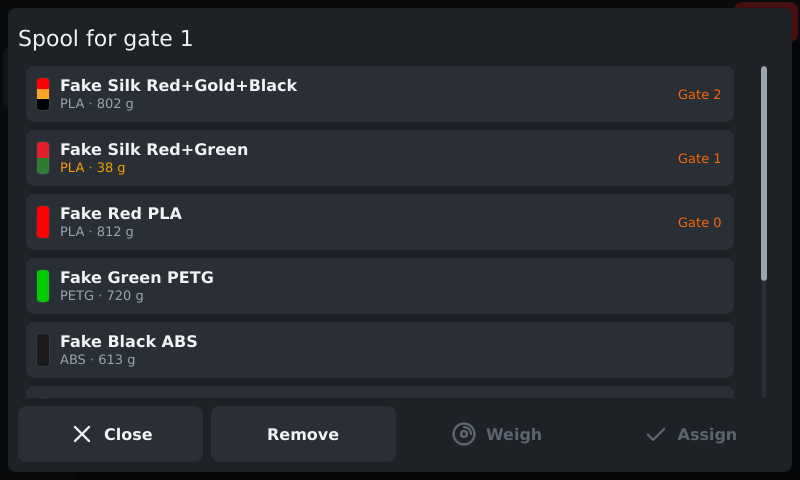
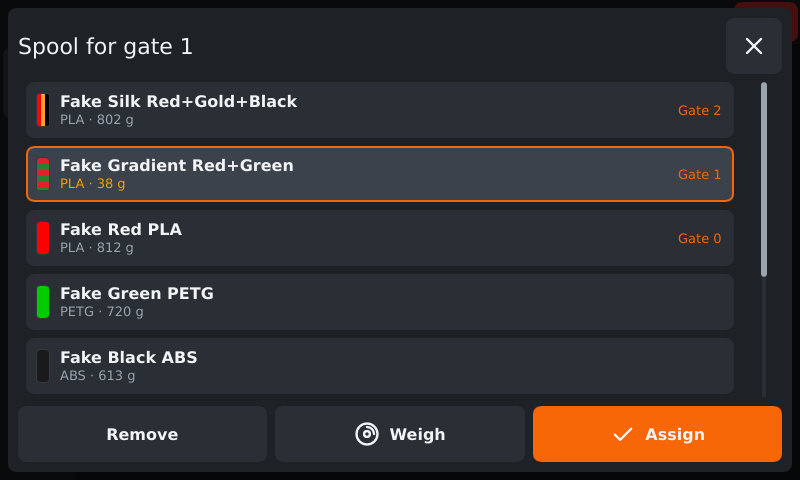
Extruder gears in the filament path, clearer spool dialog
- Extruder shown as a gears icon instead of a thick tube piece; lit once Happy Hare reports the filament at the gears
- Spool dialog: close button at the top right, the current spool preselected
- "Remove" renamed to "Unlink" and only enabled when the gate has a spool

diff --git a/assets/icons/overview.html b/assets/icons/overview.html
@@ -10,7 +10,7 @@ figure{margin:0;text-align:center}
 .icon svg{width:48px;height:48px}
 figcaption{font-size:11px;opacity:.8;word-break:break-all}
 </style></head><body>
-<h1>freakymate icon set (158 icons) - generated by crates/icon-index</h1>
+<h1>freakymate icon set (159 icons) - generated by crates/icon-index</h1>
 <section style="color:#000;background:#fff"><h2>accessory</h2><div class="grid"><figure><div class="icon"><svg xmlns="http://www.w3.org/2000/svg" viewBox="0 0 24 24" width="24" height="24" fill="none" stroke="currentColor" stroke-width="2" stroke-linecap="round" stroke-linejoin="round">
   <path d="M4 8h3l2-3h6l2 3h3v11H4z"/>
   <circle cx="12" cy="13" r="3.5"/>
@@ -63,6 +63,11 @@ figcaption{font-size:11px;opacity:.8;word-break:break-all}
   <path d="M8 3h8l-2 5h-4z"/>
   <path d="M12 12v8M8.5 16.5L12 20l3.5-3.5"/>
 </svg></div><figcaption>extrude</figcaption></figure><figure><div class="icon"><svg xmlns="http://www.w3.org/2000/svg" viewBox="0 0 24 24" width="24" height="24" fill="none" stroke="currentColor" stroke-width="2" stroke-linecap="round" stroke-linejoin="round">
+  <path d="M3 12h18"/>
+  <circle cx="12" cy="7" r="3.5"/>
+  <circle cx="12" cy="17" r="3.5"/>
+  <path stroke-width="3" d="M12 7h.01M12 17h.01"/>
+</svg></div><figcaption>extruder-gears</figcaption></figure><figure><div class="icon"><svg xmlns="http://www.w3.org/2000/svg" viewBox="0 0 24 24" width="24" height="24" fill="none" stroke="currentColor" stroke-width="2" stroke-linecap="round" stroke-linejoin="round">
   <path d="M12 3.5c3 4 6 6.5 6 10a6 6 0 01-12 0c0-3.5 3-6 6-10z"/>
 </svg></div><figcaption>flow</figcaption></figure><figure><div class="icon"><svg xmlns="http://www.w3.org/2000/svg" viewBox="0 0 24 24" width="24" height="24" fill="none" stroke="currentColor" stroke-width="2" stroke-linecap="round" stroke-linejoin="round">
   <path d="M12 3v12M8 11.5l4 4 4-4"/>
@@ -543,6 +548,11 @@ figcaption{font-size:11px;opacity:.8;word-break:break-all}
   <path d="M8 3h8l-2 5h-4z"/>
   <path d="M12 12v8M8.5 16.5L12 20l3.5-3.5"/>
 </svg></div><figcaption>extrude</figcaption></figure><figure><div class="icon"><svg xmlns="http://www.w3.org/2000/svg" viewBox="0 0 24 24" width="24" height="24" fill="none" stroke="currentColor" stroke-width="2" stroke-linecap="round" stroke-linejoin="round">
+  <path d="M3 12h18"/>
+  <circle cx="12" cy="7" r="3.5"/>
+  <circle cx="12" cy="17" r="3.5"/>
+  <path stroke-width="3" d="M12 7h.01M12 17h.01"/>
+</svg></div><figcaption>extruder-gears</figcaption></figure><figure><div class="icon"><svg xmlns="http://www.w3.org/2000/svg" viewBox="0 0 24 24" width="24" height="24" fill="none" stroke="currentColor" stroke-width="2" stroke-linecap="round" stroke-linejoin="round">
   <path d="M12 3.5c3 4 6 6.5 6 10a6 6 0 01-12 0c0-3.5 3-6 6-10z"/>
 </svg></div><figcaption>flow</figcaption></figure><figure><div class="icon"><svg xmlns="http://www.w3.org/2000/svg" viewBox="0 0 24 24" width="24" height="24" fill="none" stroke="currentColor" stroke-width="2" stroke-linecap="round" stroke-linejoin="round">
   <path d="M12 3v12M8 11.5l4 4 4-4"/>

diff --git a/crates/ui-snapshot/src/scenes.rs b/crates/ui-snapshot/src/scenes.rs
@@ -227,7 +227,9 @@ fn spools(session: &mut Session) -> Result<(), String> {
     session.show_page(Page::Temperature, "temperature-spool")?;
 
     session.window.global::<Navigation>().set_page(Page::Print);
-    session.window.global::<SpoolPicker>().invoke_show(if has_mmu { 1 } else { -1 });
+    // Opens like a tap on the strip or gate 1: the spool in use is selected.
+    let current = session.window.global::<Printer>().get_spool_id();
+    session.window.global::<SpoolPicker>().invoke_show(if has_mmu { 1 } else { -1 }, current);
     session.pump(Duration::from_secs(2));
     session.capture("spool-picker")?;
     session.window.global::<SpoolPicker>().set_open(false);

diff --git a/crates/app/src/presenter.rs b/crates/app/src/presenter.rs
@@ -689,6 +689,7 @@ impl Presenter {
         printer.set_spoolman_offline(offline);
         printer.set_spoolman_pending(pending as i32);
         printer.set_has_spool(active.is_some());
+        printer.set_spool_id(active.map_or(-1, |spool| i32::try_from(spool.id).unwrap_or(-1)));
         printer.set_spool_title(active.map(Spool::title).unwrap_or_default().into());
         printer.set_spool_detail(active.map(view::spool_detail).unwrap_or_default().into());
         printer.set_spool_weight(active.map(view::spool_remaining).unwrap_or_default().into());
